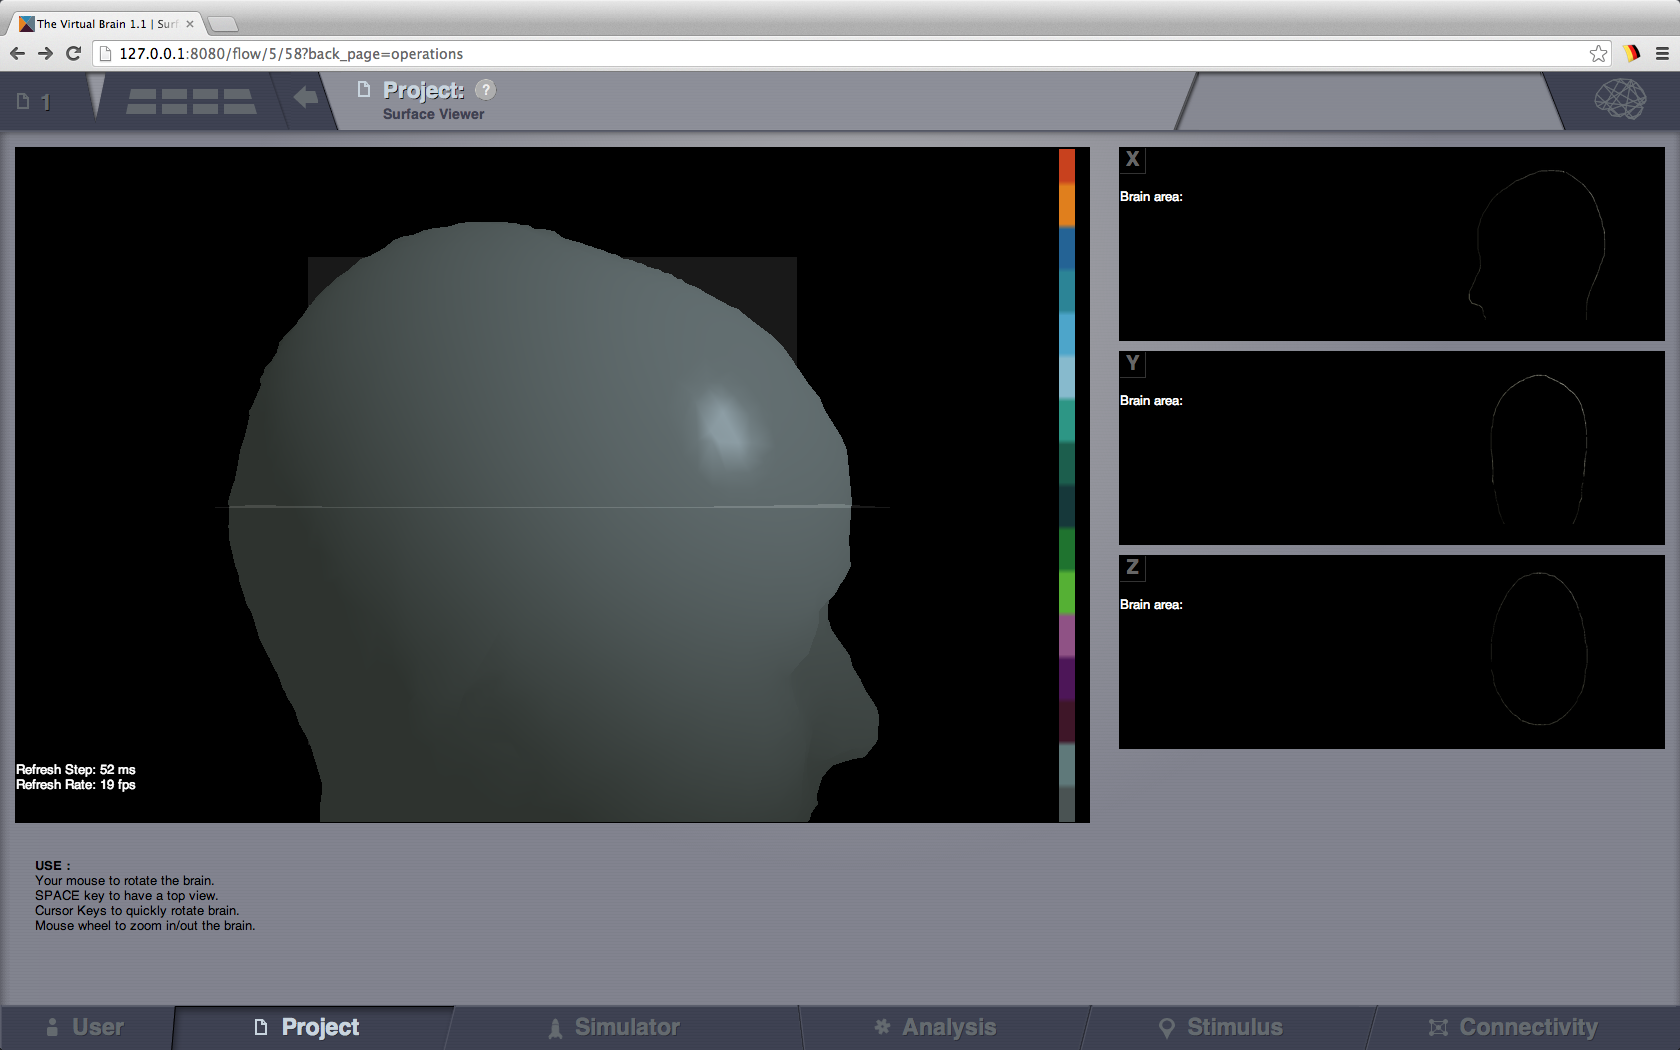
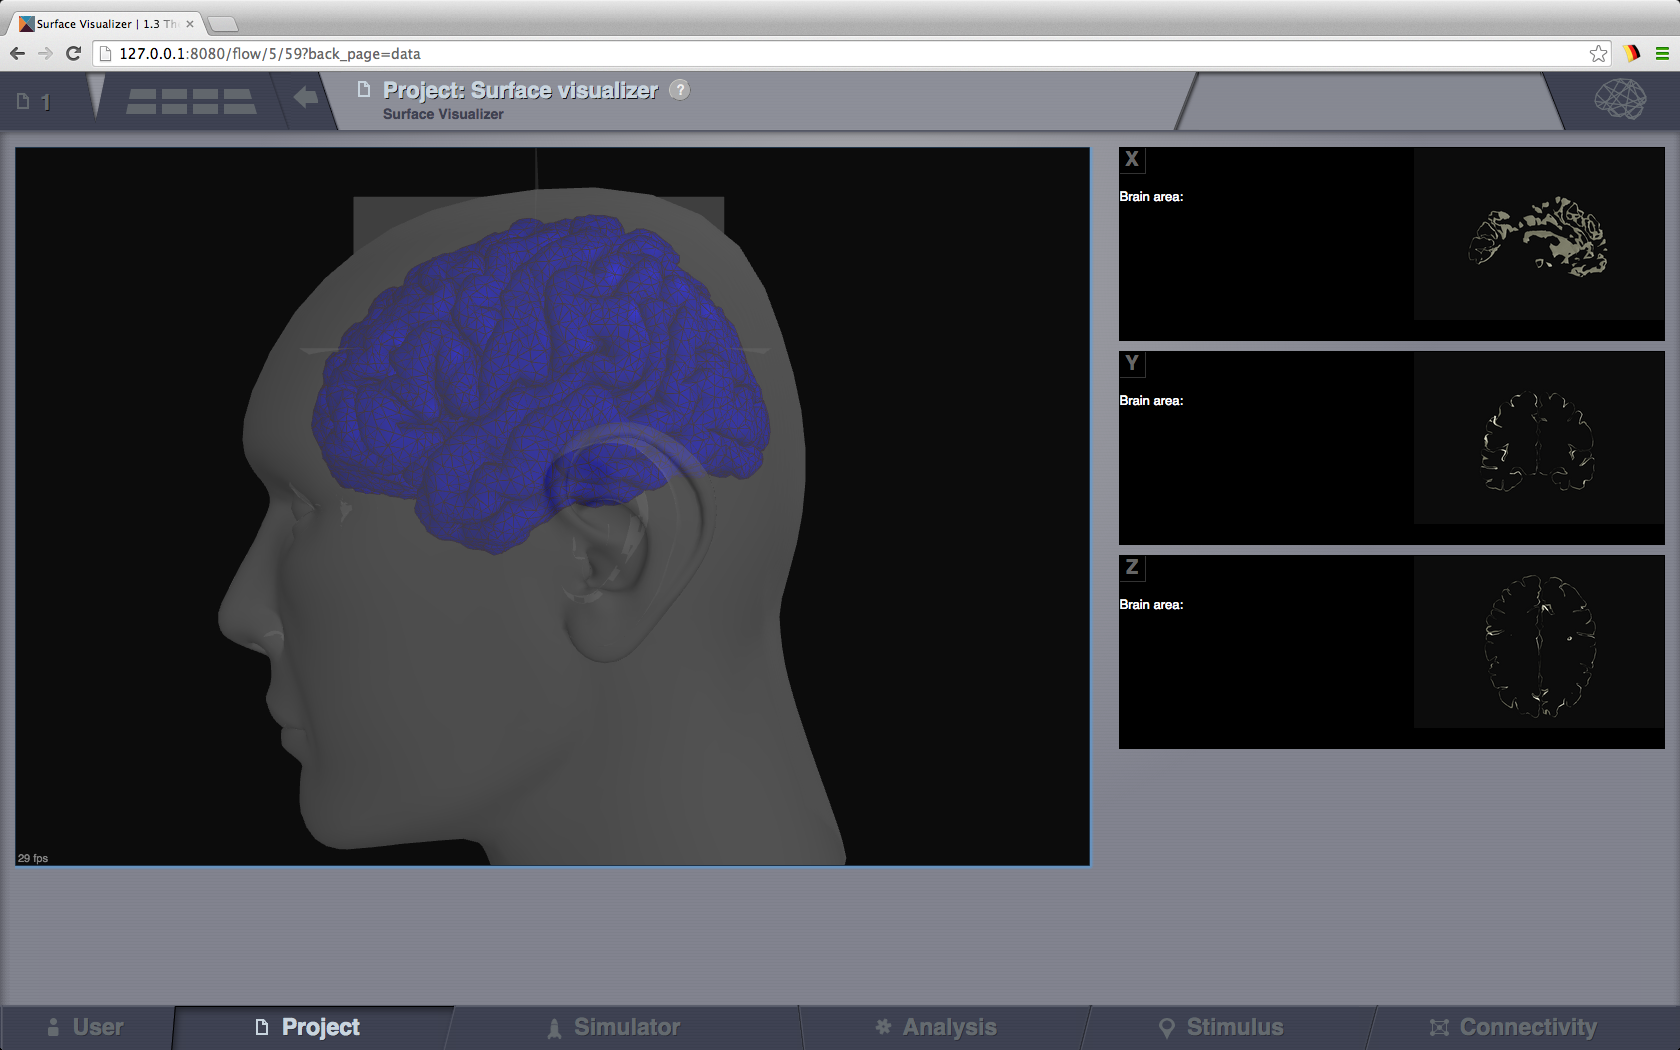
Update screenshots from the surface viewer
git-svn-id: https://repo.thevirtualbrain.org/svn/tvb/trunk/tvb_documentation@6910 1c0e02f0-7929-43c0-8fb3-3293bf43b0d1

diff --git a/manuals/UserGuide/UserGuide-UI_Simulator-Visualizers.rst b/manuals/UserGuide/UserGuide-UI_Simulator-Visualizers.rst
@@ -229,7 +229,7 @@ Instead of a discrete view, this time, we can have a continous display (with gra
 Surface Visualizer
 ~~~~~~~~~~~~~~~~~~
 
-This visualizer can be used for displaying various Brain Surface. It is a static view,
+This visualizer can be used for displaying various Brain Surfaces. It is a static view,
 mainly for visual inspecting imported surfaces in TVB.
 Optionally it can display associated RegionMapping entities for a given surface.
 Navigate the 3D scene like in the `Brain Activity Visualizer`_.
@@ -239,6 +239,12 @@ Navigate the 3D scene like in the `Brain Activity Visualizer`_.
    :align: center
 
    Surface Visualizer.
+
+.. figure:: screenshots/visualizer_surface_with_regions.jpg
+   :width: 90%
+   :align: center
+
+   Cortical Surface Visualizer with Region Mapping applied.
 
 
 Sensor Visualizer
